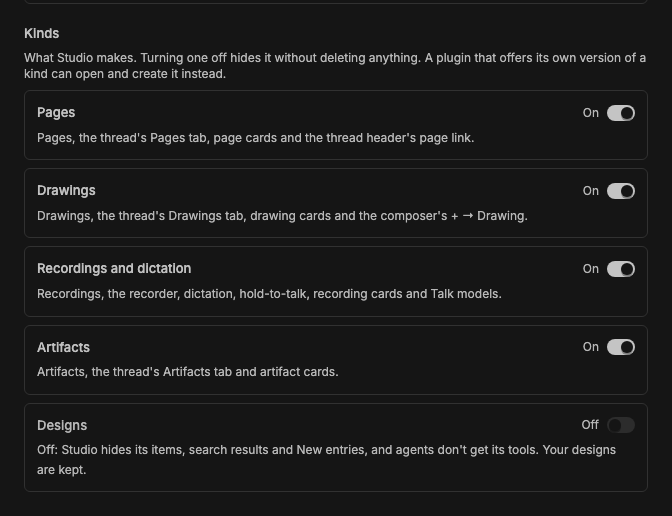
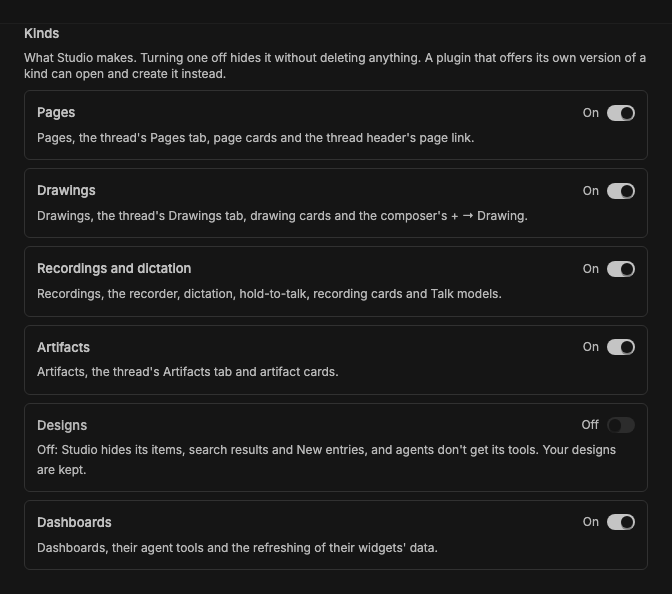
Dashboards: staged preview, and Setup → Kinds recaptured with Dashboards
Captured on a staged stable BB 0.46.0 with Studio installed from GitHub at
8bf2e42.

diff --git a/packages/bb-studio/README.md b/packages/bb-studio/README.md
@@ -520,6 +520,15 @@ Dashboards are built into Studio: live tiles, charts, tables and feeds on a
 responsive grid, which you and your agents build together. Items are
 `dashboards:<id>` and open at `/plugins/studio/studio/dashboards/<id>`.
 
+![Live BB screenshot of a dashboard open as a Studio tab](assets/dashboards-preview.png)
+
+The seeded "Launch metrics" dashboard as a Studio tab in a staged BB, in
+view mode: four stat tiles with deltas and sparklines (churn counts down as
+good), an area chart of weekly signups and trials, a custom gauge widget
+running in its sandboxed frame, a table and a changelog feed, all with
+static data. Recapture with `BB_CAPTURE_ONLY=dashboards`; the capture checks
+every tile, the chart and the custom widget's sandbox.
+
 - **In the library.** Dashboards list next to pages and drawings, with
   search over their names, widget titles and notes, tags, Move to,
   archive, duplicate, templates and **Export → Dashboard JSON**.
